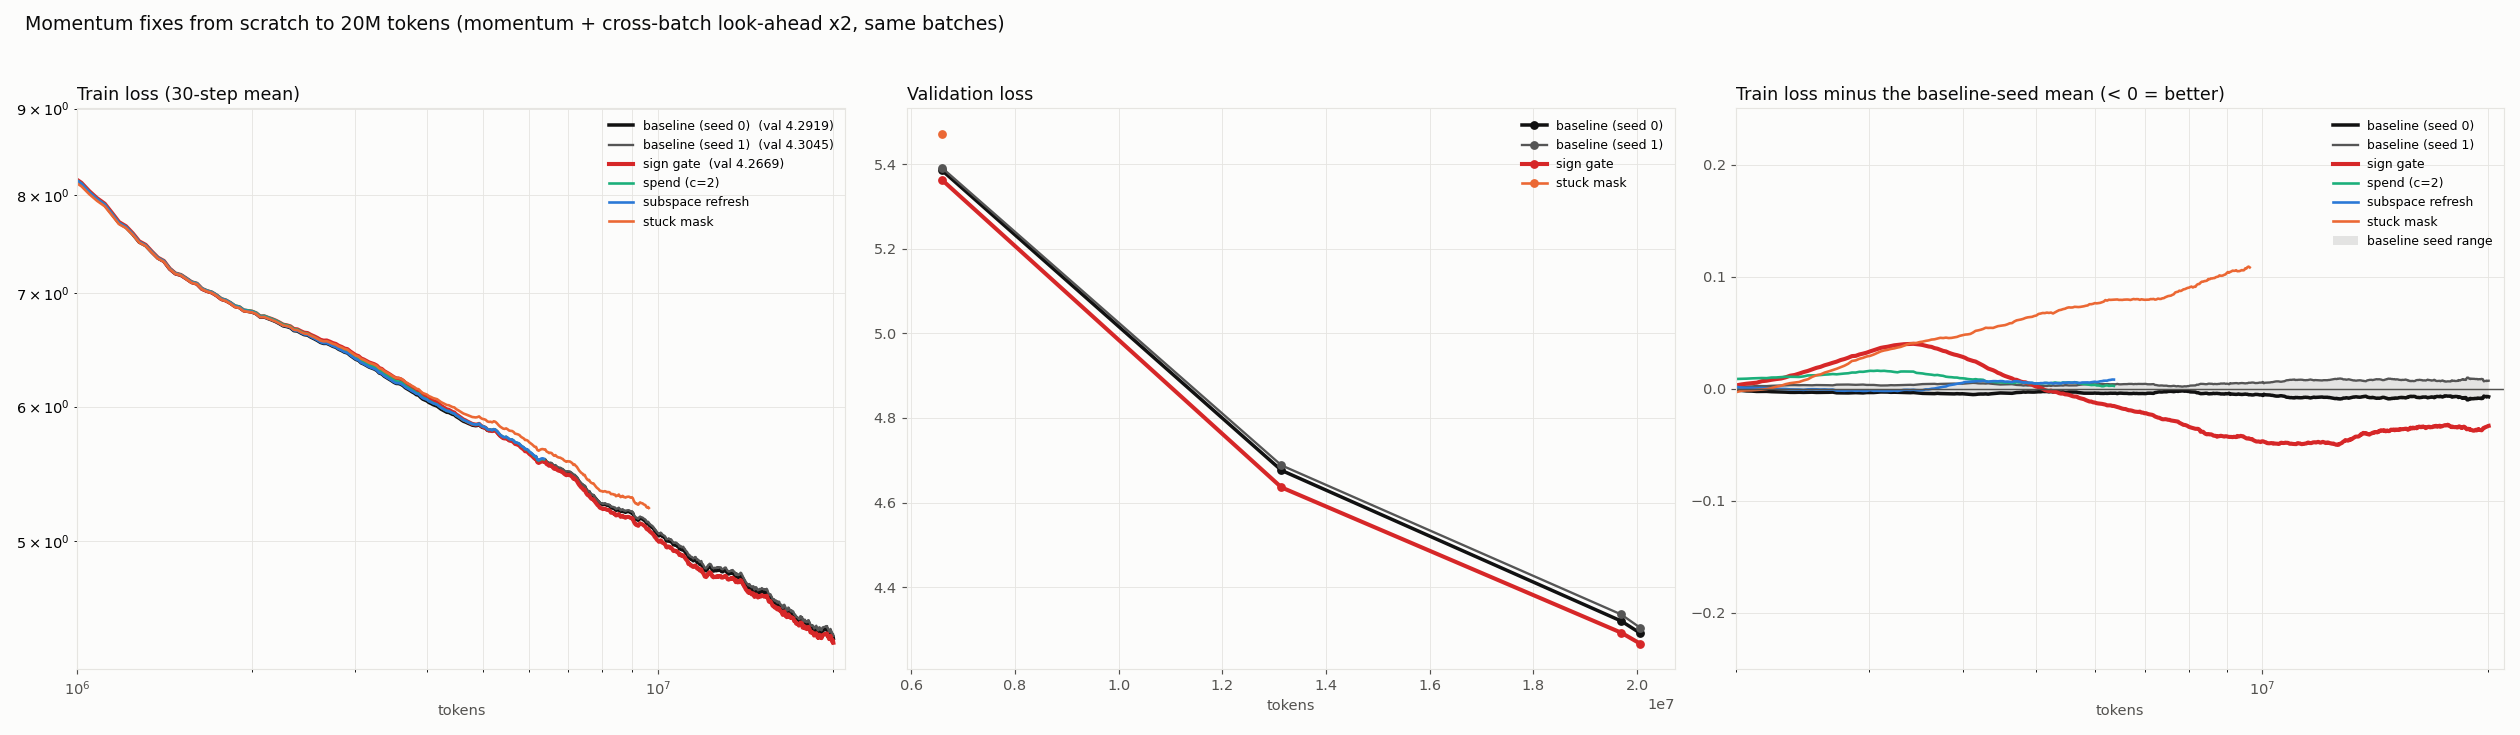
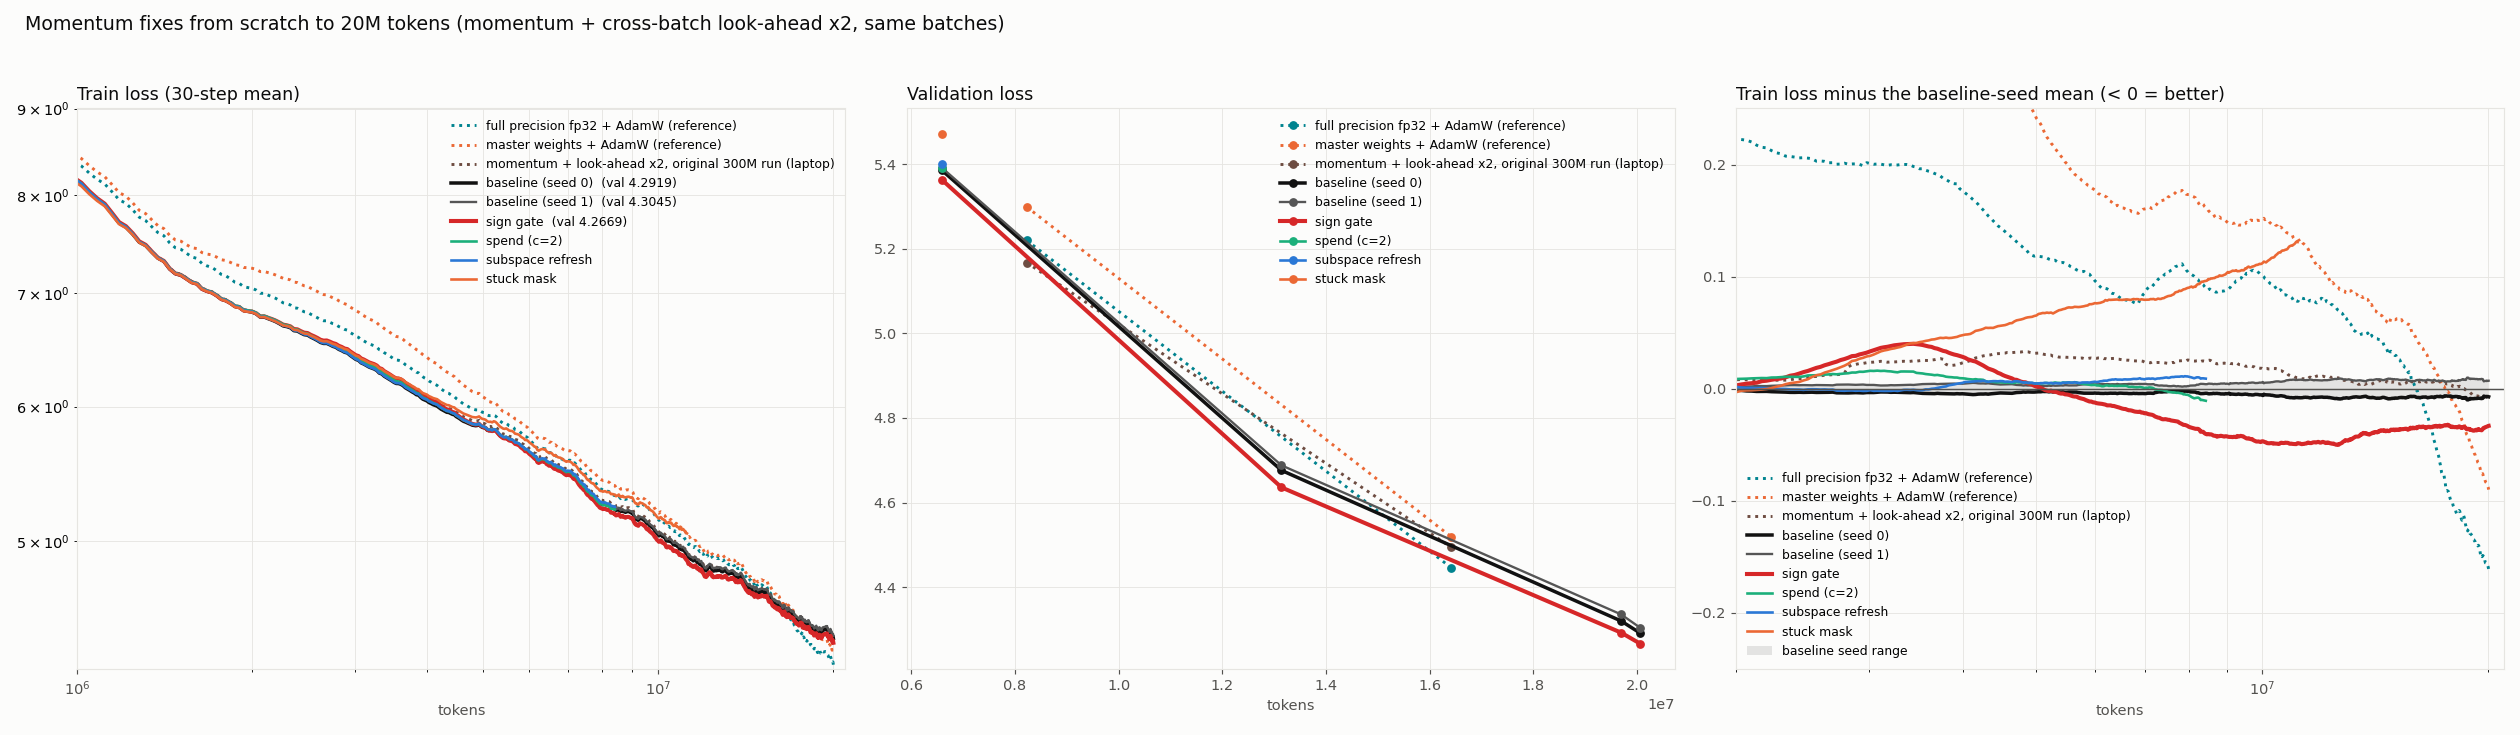
s20 plot: master, fp32 and the original momentum run as references

diff --git a/scripts/plots/plot_s20.py b/scripts/plots/plot_s20.py
@@ -11,6 +11,9 @@ import matplotlib.pyplot as plt
 
 SURFACE, INK, INK2, GRID = "#fcfcfb", "#0b0b0b", "#52514e", "#e6e5e1"
 RUNS = [  # dir, label, color, width, style
+    ("fp32_baseline", "full precision fp32 + AdamW (reference)", "#00838f", 2.0, ":"),
+    ("master_tracked", "master weights + AdamW (reference)", "#eb6834", 2.0, ":"),
+    ("lm_lowrank256_xb2_100M", "momentum + look-ahead x2, original 300M run (laptop)", "#6d4c41", 2.0, ":"),
     ("s20_base", "baseline (seed 0)", "#111111", 2.4, "-"),
     ("s20_base_seed1", "baseline (seed 1)", "#555555", 1.6, "-"),
     ("s20_base_seed2", "baseline (seed 2)", "#999999", 1.6, "-"),
@@ -20,7 +23,7 @@ RUNS = [  # dir, label, color, width, style
     ("s20_vnorm99", "vnorm (factored 2nd moment)", "#7b3fb8", 1.8, "-"),
     ("s20_maskstuck", "stuck mask", "#eb6834", 1.8, "-"),
     ("s20_magadd4", "low-rank magnitude, additive r4", "#00acc1", 1.8, "--"),
-    ("s20_magmul4", "low-rank magnitude, multiplicative r4", "#8d6e63", 1.8, "--"),
+    ("s20_magmul4", "low-rank magnitude, multiplicative r4", "#a1887f", 1.8, "--"),
     ("s20_gate_maskstuck", "gate + stuck mask", "#e91e63", 2.2, "--"),
     ("s20_gate_vnorm99", "gate + vnorm", "#ff9800", 2.2, "--"),
 ]
@@ -28,11 +31,11 @@ RUNS = [  # dir, label, color, width, style
 
 def load(d):
     rows = [json.loads(l) for l in open(f"checkpoints/{d}/metrics.jsonl")]
-    tr = {r["step"]: r["loss"] for r in rows if "loss" in r and "tokens" in r}
+    tr = {r["step"]: r["loss"] for r in rows if "loss" in r and "tokens" in r and r["step"] <= 611}
     s = np.array(sorted(tr)); L = np.array([tr[i] for i in s])
     k = 30; c = np.cumsum(np.insert(L, 0, 0.0))
     Ls = np.array([(c[i + 1] - c[max(0, i + 1 - min(k, i // 3 + 1))]) / min(k, i // 3 + 1) for i in range(len(L))])
-    v = sorted({r["step"]: r["val_loss"] for r in rows if "val_loss" in r}.items())
+    v = sorted({r["step"]: r["val_loss"] for r in rows if "val_loss" in r and r["step"] <= 611}.items())
     return s, Ls, v
 
 
